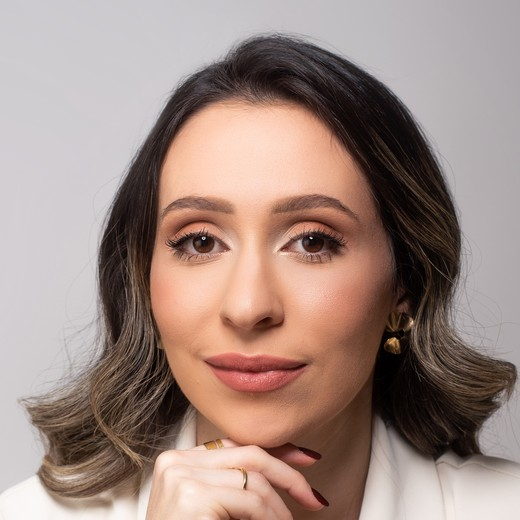
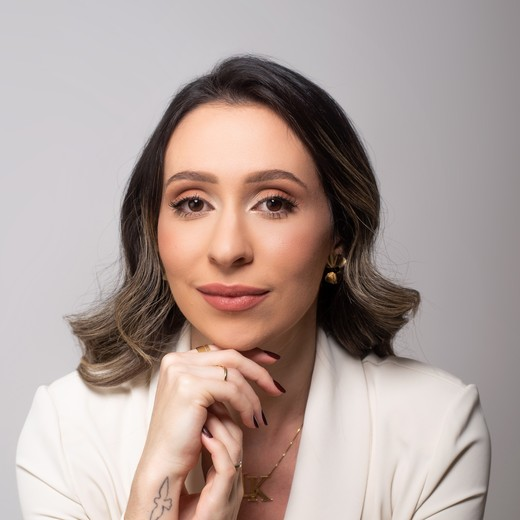
Frase-âncora 'transformar renda em patrimônio' + foto cópia 2

diff --git a/index.html b/index.html
@@ -142,7 +142,7 @@ height="0" width="0" style="display:none;visibility:hidden"></iframe></noscript>
   <div class="avatar"><span>LK</span></div>
   <h1 class="name">Letícia Kratka</h1>
   <p class="handle">@leticiakratka · Consultora financeira</p>
-  <p class="tagline">Você não precisa ganhar mais pra viver com <b>mais tranquilidade</b>.</p>
+  <p class="tagline">Como transformar renda em <b>patrimônio</b>.</p>
 
   <nav class="links">
 